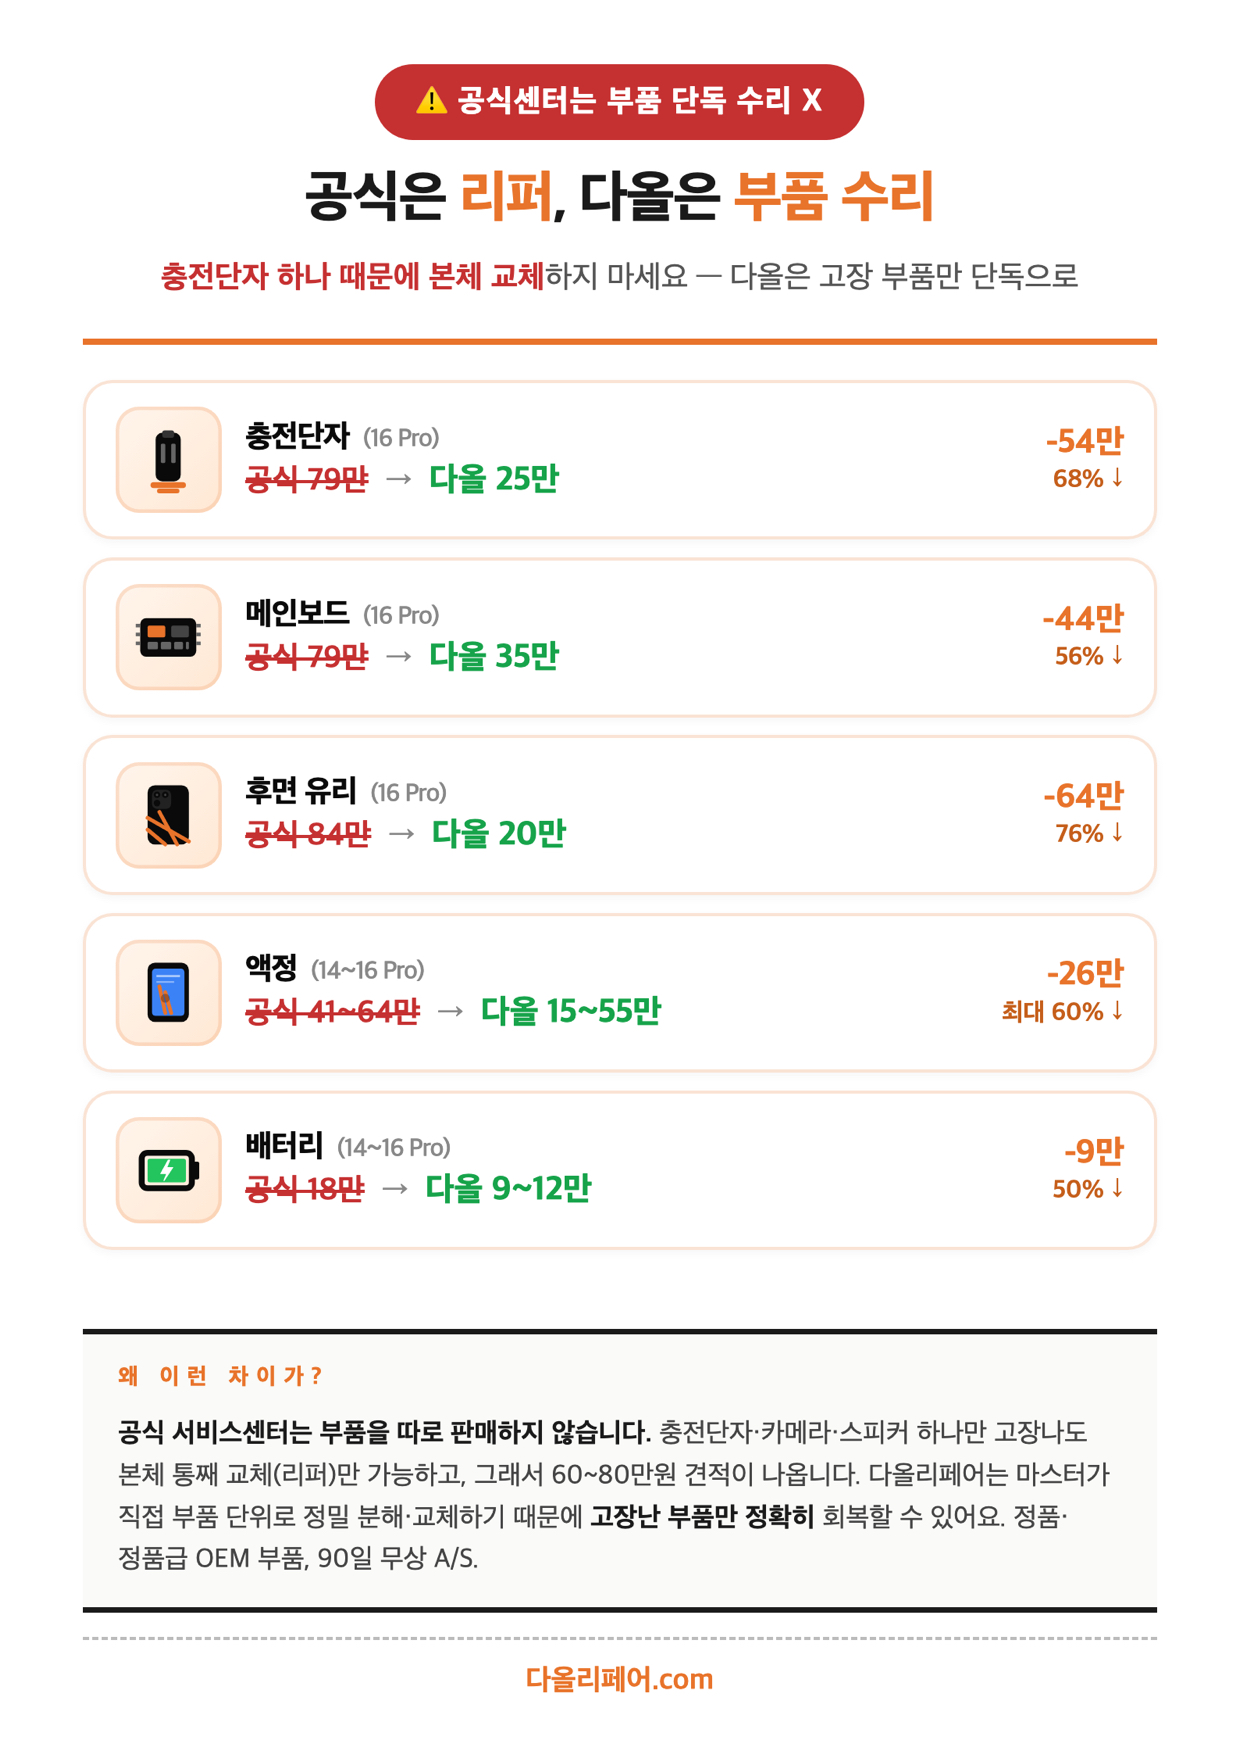
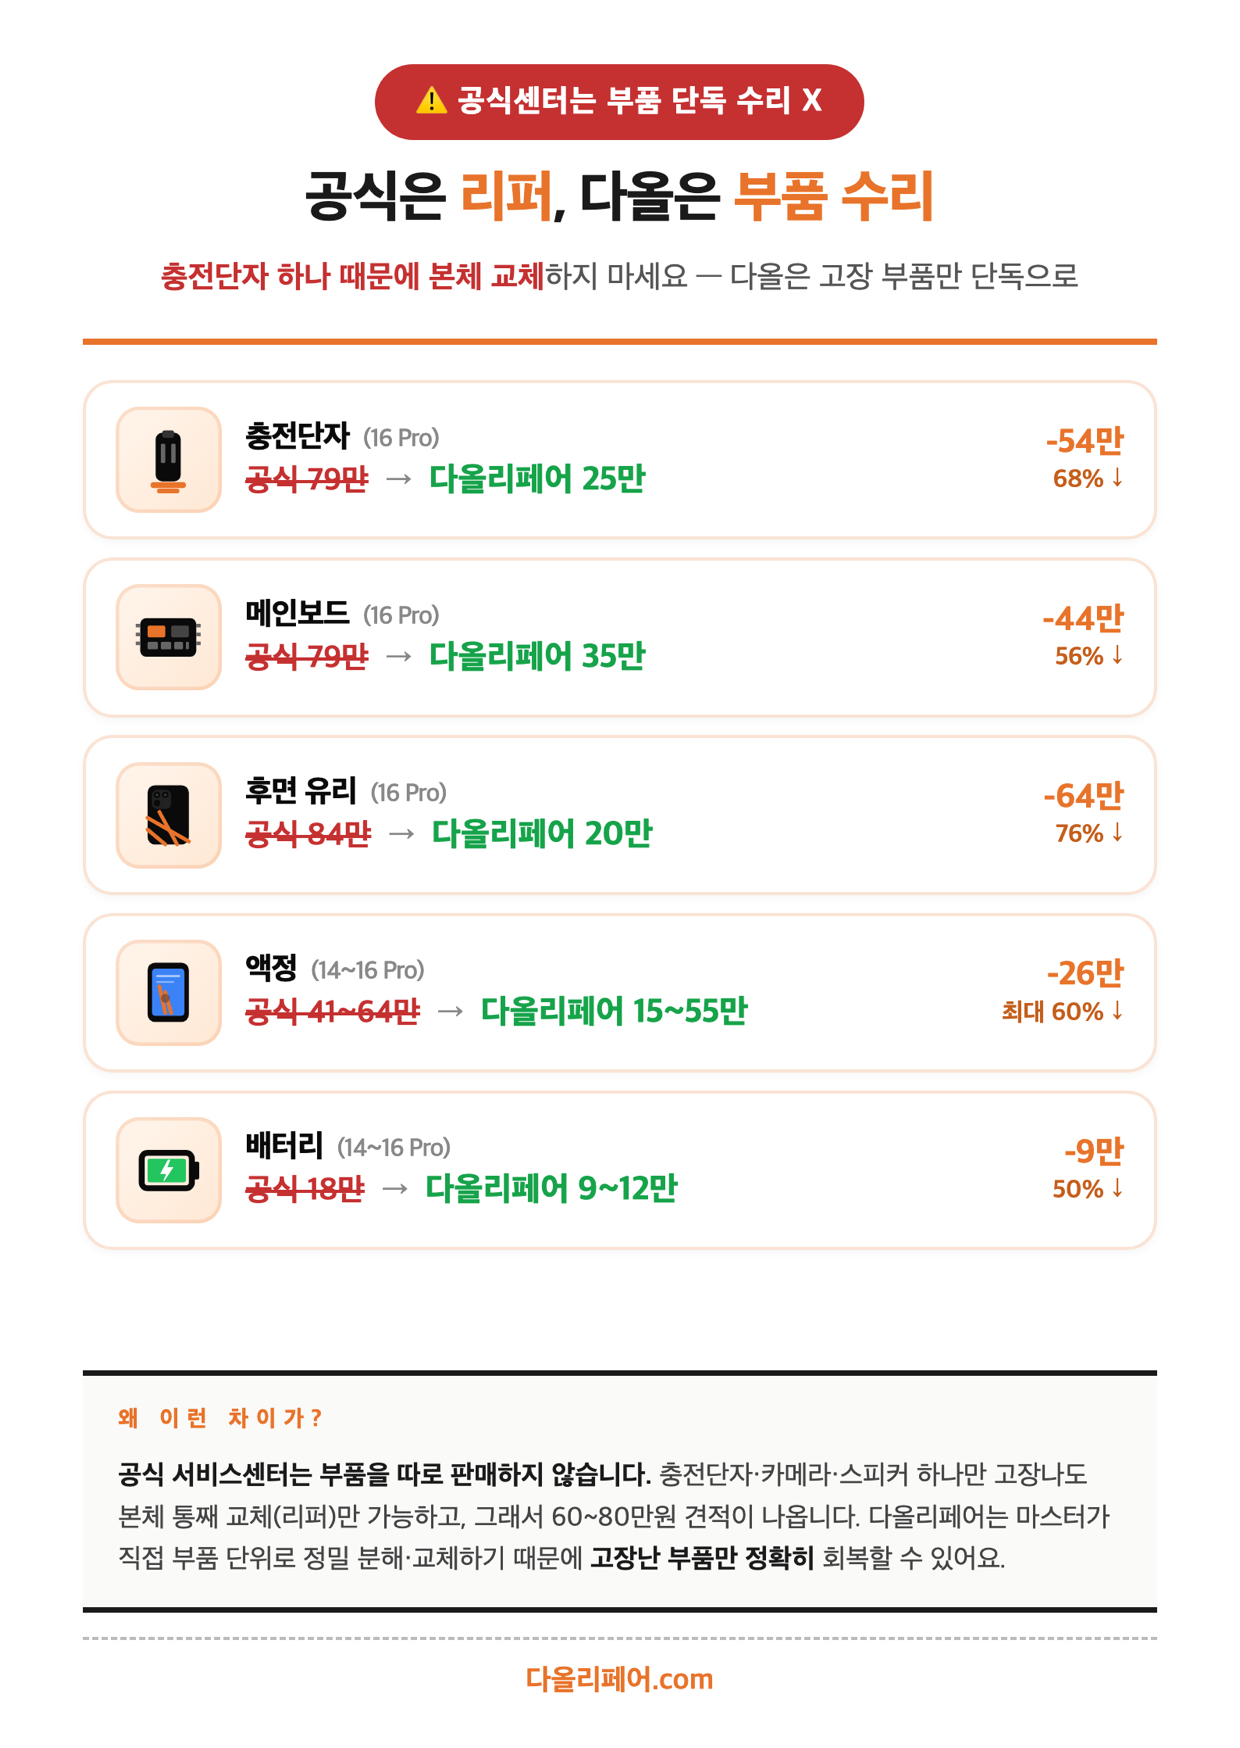
공식 vs 다올 A6 — '다올' → '다올리페어' 정확 표기 + 'OEM·90일 보증' 한 줄 제거

diff --git a/articles/notice-price-comparison-print.html b/articles/notice-price-comparison-print.html
@@ -250,7 +250,7 @@
           <div class="a6-row-prices">
             <span class="a6-row-official">공식 79만</span>
             <span class="a6-row-arrow">→</span>
-            <span class="a6-row-daol">다올 25만</span>
+            <span class="a6-row-daol">다올리페어 25만</span>
           </div>
         </div>
         <div class="a6-row-save">
@@ -283,7 +283,7 @@
           <div class="a6-row-prices">
             <span class="a6-row-official">공식 79만</span>
             <span class="a6-row-arrow">→</span>
-            <span class="a6-row-daol">다올 35만</span>
+            <span class="a6-row-daol">다올리페어 35만</span>
           </div>
         </div>
         <div class="a6-row-save">
@@ -311,7 +311,7 @@
           <div class="a6-row-prices">
             <span class="a6-row-official">공식 84만</span>
             <span class="a6-row-arrow">→</span>
-            <span class="a6-row-daol">다올 20만</span>
+            <span class="a6-row-daol">다올리페어 20만</span>
           </div>
         </div>
         <div class="a6-row-save">
@@ -337,7 +337,7 @@
           <div class="a6-row-prices">
             <span class="a6-row-official">공식 41~64만</span>
             <span class="a6-row-arrow">→</span>
-            <span class="a6-row-daol">다올 15~55만</span>
+            <span class="a6-row-daol">다올리페어 15~55만</span>
           </div>
         </div>
         <div class="a6-row-save">
@@ -361,7 +361,7 @@
           <div class="a6-row-prices">
             <span class="a6-row-official">공식 18만</span>
             <span class="a6-row-arrow">→</span>
-            <span class="a6-row-daol">다올 9~12만</span>
+            <span class="a6-row-daol">다올리페어 9~12만</span>
           </div>
         </div>
         <div class="a6-row-save">
@@ -373,7 +373,7 @@
 
     <div class="a6-foot-note">
       <span class="a6-foot-eyebrow">왜 이런 차이가?</span>
-      <strong>공식 서비스센터는 부품을 따로 판매하지 않습니다.</strong> 충전단자·카메라·스피커 하나만 고장나도 본체 통째 교체(리퍼)만 가능하고, 그래서 60~80만원 견적이 나옵니다. 다올리페어는 마스터가 직접 부품 단위로 정밀 분해·교체하기 때문에 <strong>고장난 부품만 정확히</strong> 회복할 수 있어요. 정품·정품급 OEM 부품, 90일 무상 A/S.
+      <strong>공식 서비스센터는 부품을 따로 판매하지 않습니다.</strong> 충전단자·카메라·스피커 하나만 고장나도 본체 통째 교체(리퍼)만 가능하고, 그래서 60~80만원 견적이 나옵니다. 다올리페어는 마스터가 직접 부품 단위로 정밀 분해·교체하기 때문에 <strong>고장난 부품만 정확히</strong> 회복할 수 있어요.
     </div>
 
     <div class="a6-footer">

diff --git a/dist/articles/notice-price-comparison-print.html b/dist/articles/notice-price-comparison-print.html
@@ -250,7 +250,7 @@
           <div class="a6-row-prices">
             <span class="a6-row-official">공식 79만</span>
             <span class="a6-row-arrow">→</span>
-            <span class="a6-row-daol">다올 25만</span>
+            <span class="a6-row-daol">다올리페어 25만</span>
           </div>
         </div>
         <div class="a6-row-save">
@@ -283,7 +283,7 @@
           <div class="a6-row-prices">
             <span class="a6-row-official">공식 79만</span>
             <span class="a6-row-arrow">→</span>
-            <span class="a6-row-daol">다올 35만</span>
+            <span class="a6-row-daol">다올리페어 35만</span>
           </div>
         </div>
         <div class="a6-row-save">
@@ -311,7 +311,7 @@
           <div class="a6-row-prices">
             <span class="a6-row-official">공식 84만</span>
             <span class="a6-row-arrow">→</span>
-            <span class="a6-row-daol">다올 20만</span>
+            <span class="a6-row-daol">다올리페어 20만</span>
           </div>
         </div>
         <div class="a6-row-save">
@@ -337,7 +337,7 @@
           <div class="a6-row-prices">
             <span class="a6-row-official">공식 41~64만</span>
             <span class="a6-row-arrow">→</span>
-            <span class="a6-row-daol">다올 15~55만</span>
+            <span class="a6-row-daol">다올리페어 15~55만</span>
           </div>
         </div>
         <div class="a6-row-save">
@@ -361,7 +361,7 @@
           <div class="a6-row-prices">
             <span class="a6-row-official">공식 18만</span>
             <span class="a6-row-arrow">→</span>
-            <span class="a6-row-daol">다올 9~12만</span>
+            <span class="a6-row-daol">다올리페어 9~12만</span>
           </div>
         </div>
         <div class="a6-row-save">
@@ -373,7 +373,7 @@
 
     <div class="a6-foot-note">
       <span class="a6-foot-eyebrow">왜 이런 차이가?</span>
-      <strong>공식 서비스센터는 부품을 따로 판매하지 않습니다.</strong> 충전단자·카메라·스피커 하나만 고장나도 본체 통째 교체(리퍼)만 가능하고, 그래서 60~80만원 견적이 나옵니다. 다올리페어는 마스터가 직접 부품 단위로 정밀 분해·교체하기 때문에 <strong>고장난 부품만 정확히</strong> 회복할 수 있어요. 정품·정품급 OEM 부품, 90일 무상 A/S.
+      <strong>공식 서비스센터는 부품을 따로 판매하지 않습니다.</strong> 충전단자·카메라·스피커 하나만 고장나도 본체 통째 교체(리퍼)만 가능하고, 그래서 60~80만원 견적이 나옵니다. 다올리페어는 마스터가 직접 부품 단위로 정밀 분해·교체하기 때문에 <strong>고장난 부품만 정확히</strong> 회복할 수 있어요.
     </div>
 
     <div class="a6-footer">
